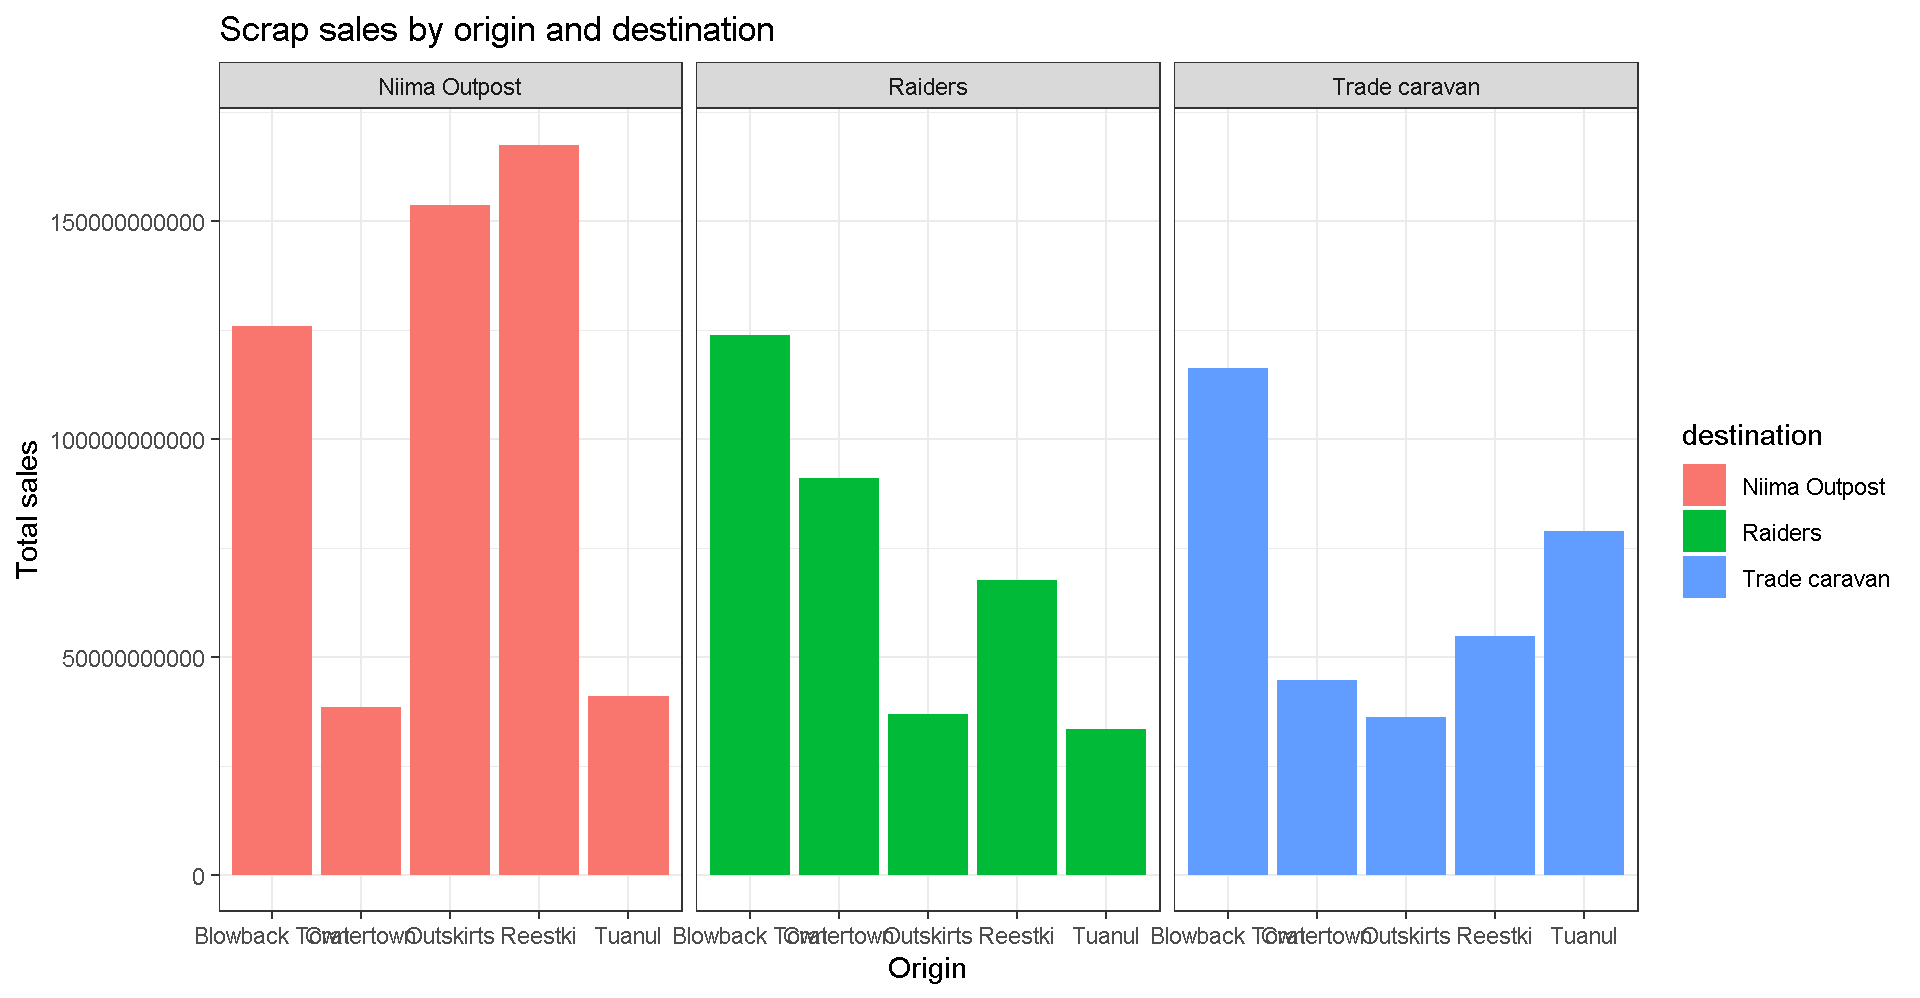
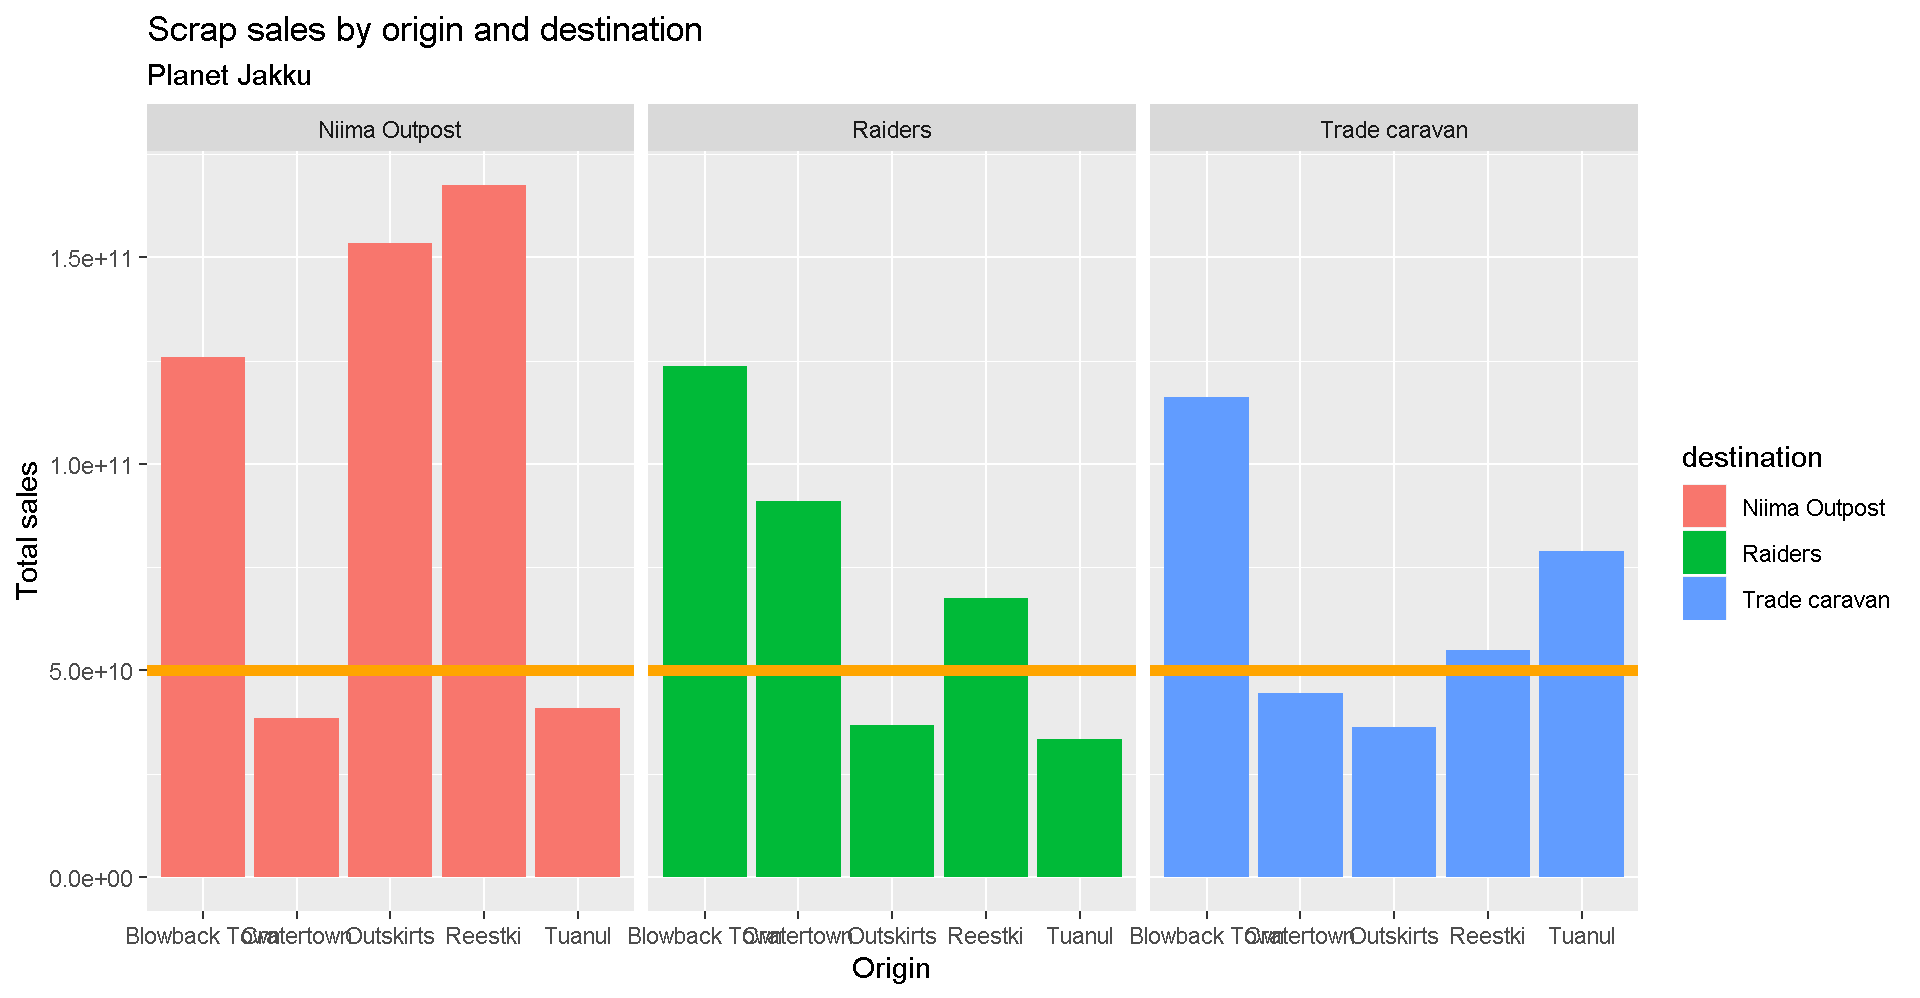
new message

diff --git a/content/page/Day2_PM.html b/content/page/Day2_PM.html
@@ -235,7 +235,7 @@ A <code>ggplot</code> has 3 ingredients.
 <h2>1. The base plot</h2>
 <div class="sourceCode"><pre class="sourceCode r"><code class="sourceCode r"><span class="kw">library</span>(ggplot2)</code></pre></div>
 <div class="sourceCode"><pre class="sourceCode r"><code class="sourceCode r"><span class="kw">ggplot</span>(scrap)</code></pre></div>
-<p><img src="/page/Day2_PM_files/figure-html/unnamed-chunk-19-1.png" width="960" /></p>
+<p><img src="/page/Day2_PM_files/figure-html/unnamed-chunk-20-1.png" width="960" /></p>
 <p><br></p>
 <blockquote>
 <p>we load version 2 of the package <code>library(ggplot2)</code>, but the function to make the plot is only <code>ggplot()</code>. No <code>2</code>. <em>Sorry.</em></p>
@@ -245,12 +245,12 @@ A <code>ggplot</code> has 3 ingredients.
 <h2>2. The the X, Y <em>aesthetics</em></h2>
 <p>The <em>aesthetics</em> assign the columns from the data that you want to use in the chart. This is where you set the <code>X</code>-<code>Y</code> variables that determine the dimensions of the plot.</p>
 <div class="sourceCode"><pre class="sourceCode r"><code class="sourceCode r"><span class="kw">ggplot</span>(scrap, <span class="kw">aes</span>(<span class="dt">x =</span> origin, <span class="dt">y =</span> amount)) </code></pre></div>
-<p><img src="/page/Day2_PM_files/figure-html/unnamed-chunk-20-1.png" width="960" /></p>
+<p><img src="/page/Day2_PM_files/figure-html/unnamed-chunk-21-1.png" width="960" /></p>
 </div>
 <div id="the-layers-or-geometries" class="section level2 unnumbered">
 <h2>3. The layers or <em>geometries</em></h2>
 <div class="sourceCode"><pre class="sourceCode r"><code class="sourceCode r"><span class="kw">ggplot</span>(scrap, <span class="kw">aes</span>(<span class="dt">x =</span> origin, <span class="dt">y =</span> amount)) <span class="op">+</span><span class="st"> </span><span class="kw">geom_col</span>()</code></pre></div>
-<p><img src="/page/Day2_PM_files/figure-html/unnamed-chunk-21-1.png" width="960" /></p>
+<p><img src="/page/Day2_PM_files/figure-html/unnamed-chunk-22-1.png" width="960" /></p>
 <p><br></p>
 </div>
 <div id="colors" class="section level2 unnumbered">
@@ -259,7 +259,7 @@ A <code>ggplot</code> has 3 ingredients.
 <p>Now let’s change the fill color to match the origin.</p>
 <div class="sourceCode"><pre class="sourceCode r"><code class="sourceCode r"><span class="kw">ggplot</span>(scrap, <span class="kw">aes</span>(<span class="dt">x =</span> origin, <span class="dt">y =</span> amount, <span class="dt">fill =</span> origin)) <span class="op">+</span>
 <span class="st">  </span><span class="kw">geom_col</span>() </code></pre></div>
-<p><img src="/page/Day2_PM_files/figure-html/unnamed-chunk-22-1.png" width="960" /></p>
+<p><img src="/page/Day2_PM_files/figure-html/unnamed-chunk-23-1.png" width="960" /></p>
 <div class="tip">
 <h3 id="explore-1" class="unnumbered"><i class="fa fa-user-astronaut" style="color: green;"></i> Explore!</h3>
 <p>Try making a column plot showing the total amount of scrap for each <code>destination</code> or for each <code>item</code>.</p>
@@ -330,15 +330,33 @@ A <code>ggplot</code> has 3 ingredients.
 </div>
 <div id="labels" class="section level2 unnumbered">
 <h2>Labels</h2>
-<p>You can also change the axis and title labels using the <code>labs</code> function.</p>
+<p>We can add lables to the chart by adding the <code>labs()</code> layer. Let’s give our chart from above a title.</p>
+<p><strong>Titles and labels</strong></p>
 <div class="sourceCode"><pre class="sourceCode r"><code class="sourceCode r"><span class="kw">ggplot</span>(scrap, <span class="kw">aes</span>(<span class="dt">x =</span> origin, <span class="dt">y =</span> credits, <span class="dt">fill =</span> destination)) <span class="op">+</span>
 <span class="st">  </span><span class="kw">geom_col</span>(<span class="dt">position =</span> <span class="st">&quot;dodge&quot;</span>) <span class="op">+</span>
 <span class="st">  </span><span class="kw">facet_wrap</span>(<span class="st">&quot;destination&quot;</span>) <span class="op">+</span>
-<span class="st">  </span><span class="kw">labs</span>(<span class="dt">title =</span> <span class="st">&quot;Scrap sales by origin and destination&quot;</span>, 
-       <span class="dt">x     =</span> <span class="st">&quot;Origin&quot;</span>, 
-       <span class="dt">y     =</span> <span class="st">&quot;Total sales&quot;</span>)</code></pre></div>
+<span class="st">  </span><span class="kw">labs</span>(<span class="dt">title    =</span> <span class="st">&quot;Scrap sales by origin and destination&quot;</span>,
+       <span class="dt">subtitle =</span> <span class="st">&quot;Planet Jakku&quot;</span>,
+       <span class="dt">x        =</span> <span class="st">&quot;Origin&quot;</span>, 
+       <span class="dt">y        =</span> <span class="st">&quot;Total sales&quot;</span>)</code></pre></div>
 <p><img src="/page/Day2_PM_files/figure-html/unnamed-chunk-9-1.png" width="960" /></p>
 <p><br></p>
+</div>
+<div id="add-lines" class="section level2 unnumbered">
+<h2>Add lines</h2>
+<blockquote>
+<p>More layers! Let’s say we were advised to avoid sales that were over <em>50 Billion</em> credits. Let’s add that as a horizontal line to our chart. For that, we use <code>geom_hline()</code>.</p>
+</blockquote>
+<p><strong>Reference lines</strong></p>
+<div class="sourceCode"><pre class="sourceCode r"><code class="sourceCode r"><span class="kw">ggplot</span>(scrap, <span class="kw">aes</span>(<span class="dt">x =</span> origin, <span class="dt">y =</span> credits, <span class="dt">fill =</span> destination)) <span class="op">+</span>
+<span class="st">  </span><span class="kw">geom_col</span>(<span class="dt">position =</span> <span class="st">&quot;dodge&quot;</span>) <span class="op">+</span>
+<span class="st">  </span><span class="kw">facet_wrap</span>(<span class="st">&quot;destination&quot;</span>) <span class="op">+</span>
+<span class="st">  </span><span class="kw">labs</span>(<span class="dt">title    =</span> <span class="st">&quot;Scrap sales by origin and destination&quot;</span>,
+       <span class="dt">subtitle =</span> <span class="st">&quot;Planet Jakku&quot;</span>,
+       <span class="dt">x        =</span> <span class="st">&quot;Origin&quot;</span>, 
+       <span class="dt">y        =</span> <span class="st">&quot;Total sales&quot;</span>) <span class="op">+</span>
+<span class="st">     </span><span class="kw">geom_hline</span>(<span class="dt">yintercept =</span> <span class="fl">5E+10</span>, <span class="dt">color =</span> <span class="st">&quot;orange&quot;</span>, <span class="dt">size =</span> <span class="dv">2</span>)</code></pre></div>
+<p><img src="/page/Day2_PM_files/figure-html/unnamed-chunk-10-1.png" width="960" /></p>
 </div>
 <div id="drop-2.2e06-scientific-notation" class="section level2 unnumbered">
 <h2>Drop <code>2.2e+06</code> scientific notation</h2>
@@ -353,11 +371,12 @@ A <code>ggplot</code> has 3 ingredients.
 <span class="st">  </span><span class="kw">labs</span>(<span class="dt">title =</span> <span class="st">&quot;Scrap sales by origin and destination&quot;</span>, 
        <span class="dt">x     =</span> <span class="st">&quot;Origin&quot;</span>, 
        <span class="dt">y     =</span> <span class="st">&quot;Total sales&quot;</span>)</code></pre></div>
-<p><img src="/page/Day2_PM_files/figure-html/unnamed-chunk-10-1.png" width="960" /></p>
+<p><img src="/page/Day2_PM_files/figure-html/unnamed-chunk-11-1.png" width="960" /></p>
 <p><br></p>
-<div class="tip">
-<h3 id="challenge" class="unnumbered">Challenge</h3>
-<p>Let’s say we don’t like printing so many zeros and want the labels to be in <strong>Millions</strong> of credits. Any ideas on how to make that happen?</p>
+<div id="explore-3" class="section level3 unnumbered">
+<h3><i class="fa fa-user-astronaut" style="color: green;"></i> Explore!</h3>
+Let’s say we don’t like printing so many zeros and want the labels to be in <strong>Millions</strong> of credits. Any ideas on how to make that happen?
+</div>
 </div>
 </div>
 <div id="themes" class="section level2 unnumbered">
@@ -367,9 +386,9 @@ A <code>ggplot</code> has 3 ingredients.
 <span class="st">  </span><span class="kw">geom_col</span>(<span class="dt">position =</span> <span class="st">&quot;dodge&quot;</span>) <span class="op">+</span>
 <span class="st">  </span><span class="kw">facet_wrap</span>(<span class="st">&quot;destination&quot;</span>) <span class="op">+</span>
 <span class="st">  </span><span class="kw">theme_bw</span>()</code></pre></div>
-<p><img src="/page/Day2_PM_files/figure-html/unnamed-chunk-11-1.png" width="960" /></p>
+<p><img src="/page/Day2_PM_files/figure-html/unnamed-chunk-12-1.png" width="960" /></p>
 <div class="tip">
-<h3 id="explore-3" class="unnumbered"><i class="fa fa-user-astronaut" style="color: green;"></i> Explore!</h3>
+<h3 id="explore-4" class="unnumbered"><i class="fa fa-user-astronaut" style="color: green;"></i> Explore!</h3>
 <p>Be bold and make a <strong>boxplot</strong>. We’ve covered how to do a scatterplot with <code>geom_point</code> and a bar chart with <code>geom_col</code>, but how would you make a boxplot showing the prices at each destination? Feel free to experiment with <code>color</code> ,<code>facet_wrap</code>, <code>theme</code>, and <code>labs</code>.</p>
 <blockquote>
 <p>May the force be with you.</p>
@@ -424,7 +443,7 @@ my_plot &lt;-<span class="st"> </span><span class="kw">ggplot</span>(...) <span 
 <p>
 <div class="sourceCode"><pre class="sourceCode r"><code class="sourceCode r"><span class="kw">ggplot</span>(cheap_scrap, <span class="kw">aes</span>(<span class="dt">x =</span> destination, <span class="dt">y =</span> total_pounds) ) <span class="op">+</span><span class="st"> </span>
 <span class="st">   </span><span class="kw">geom_col</span>()</code></pre></div>
-<p><img src="/page/Day2_PM_files/figure-html/unnamed-chunk-14-1.png" width="960" /></p>
+<p><img src="/page/Day2_PM_files/figure-html/unnamed-chunk-15-1.png" width="960" /></p>
 </p>
 </div>
 <p></details></p>
